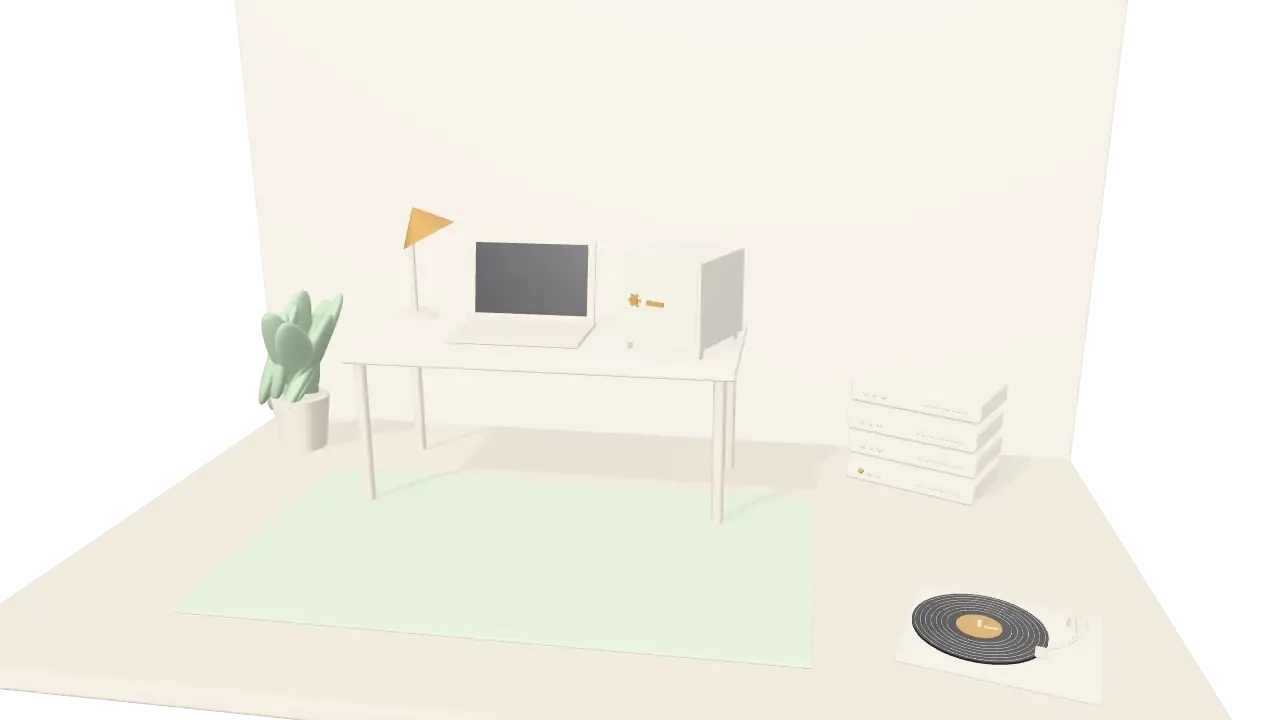
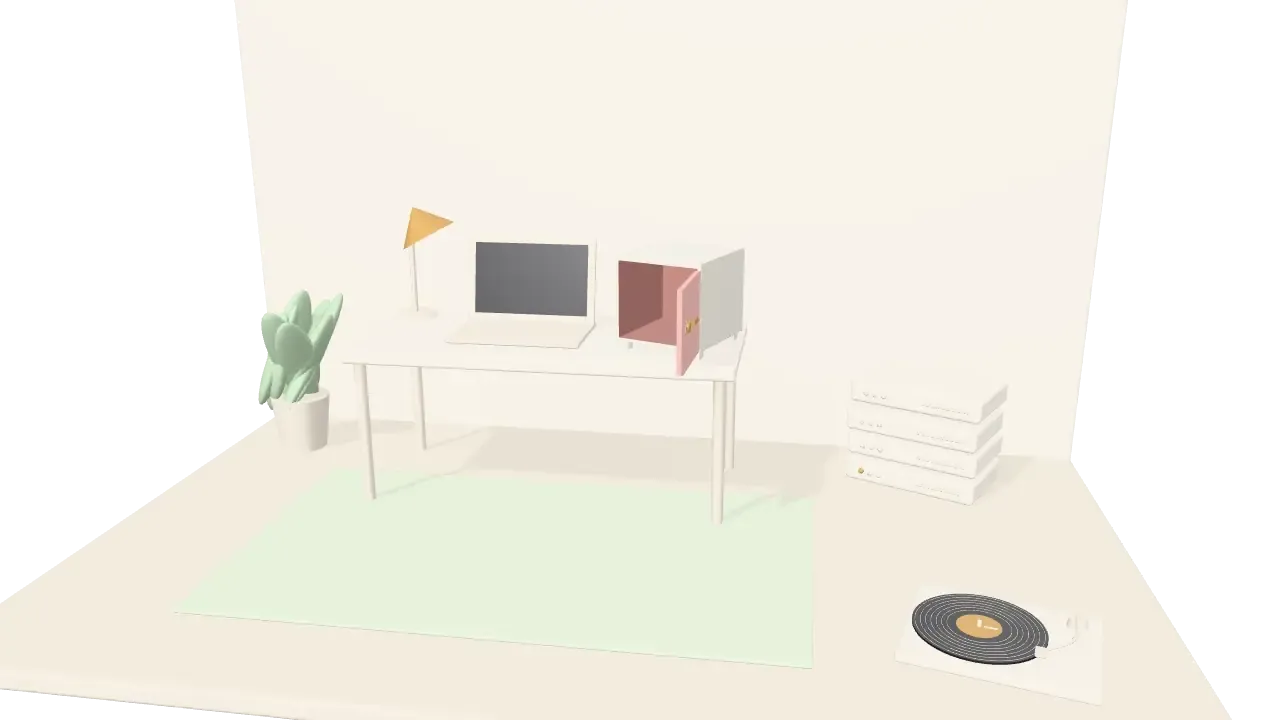
feat(portfolio): le coffre de Mithril se ferme et se verrouille
À l'escale « À la maison », la porte du coffre se détache du modèle : sur une
boucle de 8 s, elle se ferme, la molette fait un tour pour la verrouiller,
puis le coffre se rouvre. La porte prend le rouge clair des monuments, la
molette et la poignée le laiton. Le serveur et la platine gardent leur rythme.
La boucle du téléphone et les images fixes sont refaites ; les vidéos de
l'ordinateur aussi, mais comme toutes les .mp4 elles restent hors du dépôt.

Changed region(s): [[0.4688, 0.3667, 0.5625, 0.5194]]

diff --git a/apps/portfolio/design/renders/voyage-scenes.js b/apps/portfolio/design/renders/voyage-scenes.js
@@ -48,7 +48,7 @@ const TINT = {
   avion: 0x8fb8d3, // le ciel
   paris: 0xa9b2ba, // le zinc des toits
   monuments: 0xa9ba9d, // la sauge des arbres
-  monument: 0xeab9b2, // le rouge très clair des monuments (tour Eiffel, arc de triomphe), qui les détache du décor
+  monument: 0xeab9b2, // le rouge très clair des monuments (tour Eiffel, arc de triomphe) et de la porte du coffre de Mithril, qui les détache du décor
   route: 0xc6ab9c, // la tuile
   maison: 0xa3b79d, // la plante, le tapis
   salon: 0xcdb3a4, // la terre cuite du tapis
@@ -316,14 +316,20 @@ function car(M, k, body) {
   return g;
 }
 
-// Le vrai coffre-fort de Mithril (modèle libre). Sa texture est une palette : on y repeint
-// les zones sombres (molette, poignée) en laiton et le reste en craie.
-const SAFE_MAT = (() => {
+// Le vrai coffre-fort de Mithril (modèle libre). Sa texture est une palette : on y repeint les zones
+// sombres (molette, poignée) et le reste. Le caisson reste en craie ; la porte et le fond prennent le
+// rouge clair des monuments, qui détache le coffre du bureau, et la molette et la poignée le laiton.
+const rgbOf = (hex) => [hex >> 16, (hex >> 8) & 255, hex & 255];
+const SAFE_LOOK = { body: [233, 228, 219], door: rgbOf(TINT.monument), knobs: [176, 138, 79], inside: 0x9b6d67 };
+const SAFE_TEX = (() => {
   let tex = null;
   SAFE.scene.traverse((o) => {
     if (o.isMesh && o.material.map) tex = o.material.map;
   });
-  const img = tex.image;
+  return tex;
+})();
+const safeMat = (base, knobs) => {
+  const img = SAFE_TEX.image;
   const c = document.createElement("canvas");
   c.width = img.width;
   c.height = img.height;
@@ -332,25 +338,83 @@ const SAFE_MAT = (() => {
   const d = ctx.getImageData(0, 0, c.width, c.height);
   for (let i = 0; i < d.data.length; i += 4) {
     const l = (0.2126 * d.data[i] + 0.7152 * d.data[i + 1] + 0.0722 * d.data[i + 2]) / 255;
-    const rgb = l < 0.3 ? [176, 138, 79] : [233, 228, 219].map((v) => v * (0.88 + 0.12 * l));
+    const rgb = l < 0.3 ? knobs : base.map((v) => v * (0.88 + 0.12 * l));
     d.data[i] = rgb[0];
     d.data[i + 1] = rgb[1];
     d.data[i + 2] = rgb[2];
   }
   ctx.putImageData(d, 0, 0);
   const t = new THREE.CanvasTexture(c);
-  t.flipY = tex.flipY;
+  t.flipY = SAFE_TEX.flipY;
   t.colorSpace = THREE.SRGBColorSpace;
   return new THREE.MeshStandardMaterial({ map: t, roughness: 0.55, metalness: 0.05 });
-})();
+};
+const SAFE_BODY_MAT = safeMat(SAFE_LOOK.body, SAFE_LOOK.knobs);
+const SAFE_DOOR_MAT = safeMat(SAFE_LOOK.door, SAFE_LOOK.knobs);
+// La couleur de la porte sans texture (le gris de la palette, l = 0,545), pour son épaisseur.
+const SAFE_PLAIN = new THREE.MeshStandardMaterial({
+  color: new THREE.Color().setRGB(...SAFE_LOOK.door.map((v) => (v * 0.945) / 255), THREE.SRGBColorSpace),
+  roughness: 0.55,
+  metalness: 0.05,
+});
+const SAFE_INSIDE = new THREE.MeshStandardMaterial({ color: SAFE_LOOK.inside, roughness: 0.8, side: THREE.BackSide });
+// Le modèle est d'un seul tenant : on en détache la porte (la plaque en relief et la poignée) et la molette.
+// Coordonnées du modèle, en millièmes : la porte couvre x −0,89 → 1,32, y 0,31 → 2,31, devant z = 0,68,
+// et derrière elle le caisson est ouvert. userData.door pivote sur la charnière, au bord droit du caisson
+// (rotation.y > 0 : la porte s'ouvre) ; userData.dial tourne sur son axe (rotation.z).
 function safe(h = 1) {
   const g = fitModel(SAFE, h);
+  let box;
   g.traverse((o) => {
-    if (!o.isMesh) return;
-    o.material = SAFE_MAT;
-    o.castShadow = true;
-    o.receiveShadow = true;
+    if (o.isMesh) box = o;
   });
+  const K = 1e-3;
+  const geo = box.geometry, P = geo.attributes.position, idx = geo.index.array;
+  const at = (i) => [P.getX(i) / K, P.getY(i) / K, P.getZ(i) / K];
+  const inDoor = (i) => {
+    const [x, y, z] = at(i);
+    return x > -0.9 && x < 1.33 && y > 0.3 && y < 2.32 && z > 0.679;
+  };
+  const inDial = (i) => {
+    const [x, y, z] = at(i);
+    return x > -0.6 && x < -0.2 && y > 1.15 && y < 1.55 && z > 0.695;
+  };
+  const parts = { body: [], door: [], dial: [] };
+  for (let t = 0; t < idx.length; t += 3) {
+    const v = [idx[t], idx[t + 1], idx[t + 2]];
+    parts[v.every(inDial) ? "dial" : v.every(inDoor) ? "door" : "body"].push(...v);
+  }
+  const part = (list) => {
+    const p = geo.clone();
+    p.setIndex(list);
+    return p;
+  };
+  box.geometry = part(parts.body);
+  box.material = SAFE_BODY_MAT;
+  box.castShadow = true;
+  box.receiveShadow = true;
+  // Le fond du caisson, vu par l'ouverture.
+  const inside = mesh(new THREE.BoxGeometry(2.21 * K, 2.0 * K, 2.38 * K), SAFE_INSIDE, 0.215 * K, 1.31 * K, -0.51 * K);
+  inside.castShadow = false;
+  box.add(inside);
+  // La porte : la charnière au coin avant droit, la plaque décalée d'autant pour rester à sa place, fermée.
+  const HX = 1.42 * K, HZ = 0.7 * K;
+  const door = new THREE.Group();
+  door.position.set(HX, 0, HZ);
+  box.add(door);
+  const plate = mesh(part(parts.door), SAFE_DOOR_MAT, -HX, 0, -HZ);
+  door.add(plate);
+  // Son épaisseur, cachée dans l'ouverture quand elle est fermée.
+  plate.add(mesh(new THREE.BoxGeometry(2.17 * K, 1.96 * K, 0.12 * K), SAFE_PLAIN, 0.215 * K, 1.31 * K, 0.62 * K));
+  // La molette tourne autour de son centre.
+  const ring = parts.dial.map(at);
+  const [DX, DY] = [0, 1].map((a) => (Math.min(...ring.map((p) => p[a])) + Math.max(...ring.map((p) => p[a]))) / 2 * K);
+  const dial = new THREE.Group();
+  dial.position.set(DX, DY, 0);
+  plate.add(dial);
+  dial.add(mesh(part(parts.dial), SAFE_DOOR_MAT, -DX, -DY, 0));
+  g.userData.door = door;
+  g.userData.dial = dial;
   return g;
 }
 
@@ -1819,9 +1883,16 @@ const SCENES = {
     deck.position.set(1.75, 0.0, 0.7);
     g.add(deck);
     g.userData.hotspot = deck;
+    // La boucle dure 8 s : on arrive, le coffre est ouvert ; sa porte se ferme, la molette fait un tour
+    // pour verrouiller, puis il se rouvre à la fin de la boucle. Le serveur et la platine gardent leur
+    // rythme de 4 s (deux tours par boucle).
+    const OPEN = 1.85;
     g.userData.animate = (phi) => {
-      rack.userData.animate(phi);
-      deck.userData.animate(phi);
+      const u = phi / (Math.PI * 2);
+      vault.userData.door.rotation.y = OPEN * (1 - smooth(0.03, 0.17, u) + smooth(0.84, 0.97, u));
+      vault.userData.dial.rotation.z = -Math.PI * 2 * smooth(0.2, 0.36, u);
+      rack.userData.animate(2 * phi);
+      deck.userData.animate(2 * phi);
     };
     g.userData.camera = { pos: [0.9, 2.3, 4.6], target: [0.1, 0.8, -0.4], fov: 38 };
     return g;
@@ -2482,6 +2553,7 @@ const SCENES = {
 };
 // Une scène par tenue du copilote : « tenue-<escale> ».
 for (const k of TENUES) SCENES["tenue-" + k] = (M) => copilot(M, k);
+
 
 // `box` : cadrage mobile. [x0, y0, x1, y1], en fractions de l'image d'ordinateur (16:9), est la zone qui doit
 // rester visible (l'objet du projet et celui qu'on touche). La caméra vise son centre et recule, même direction
